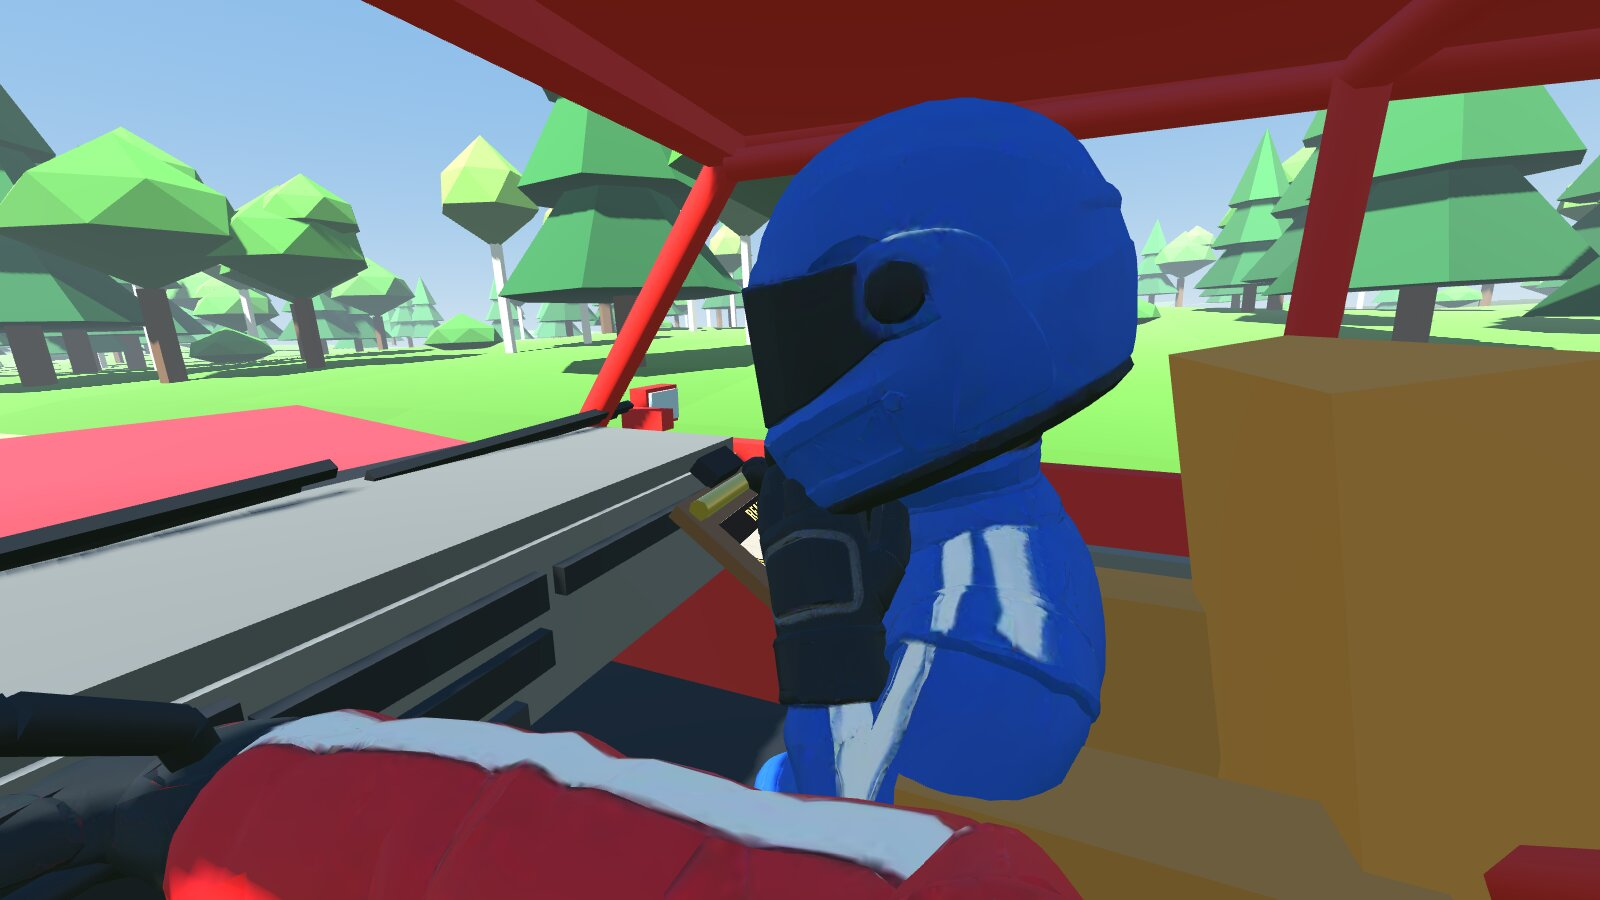
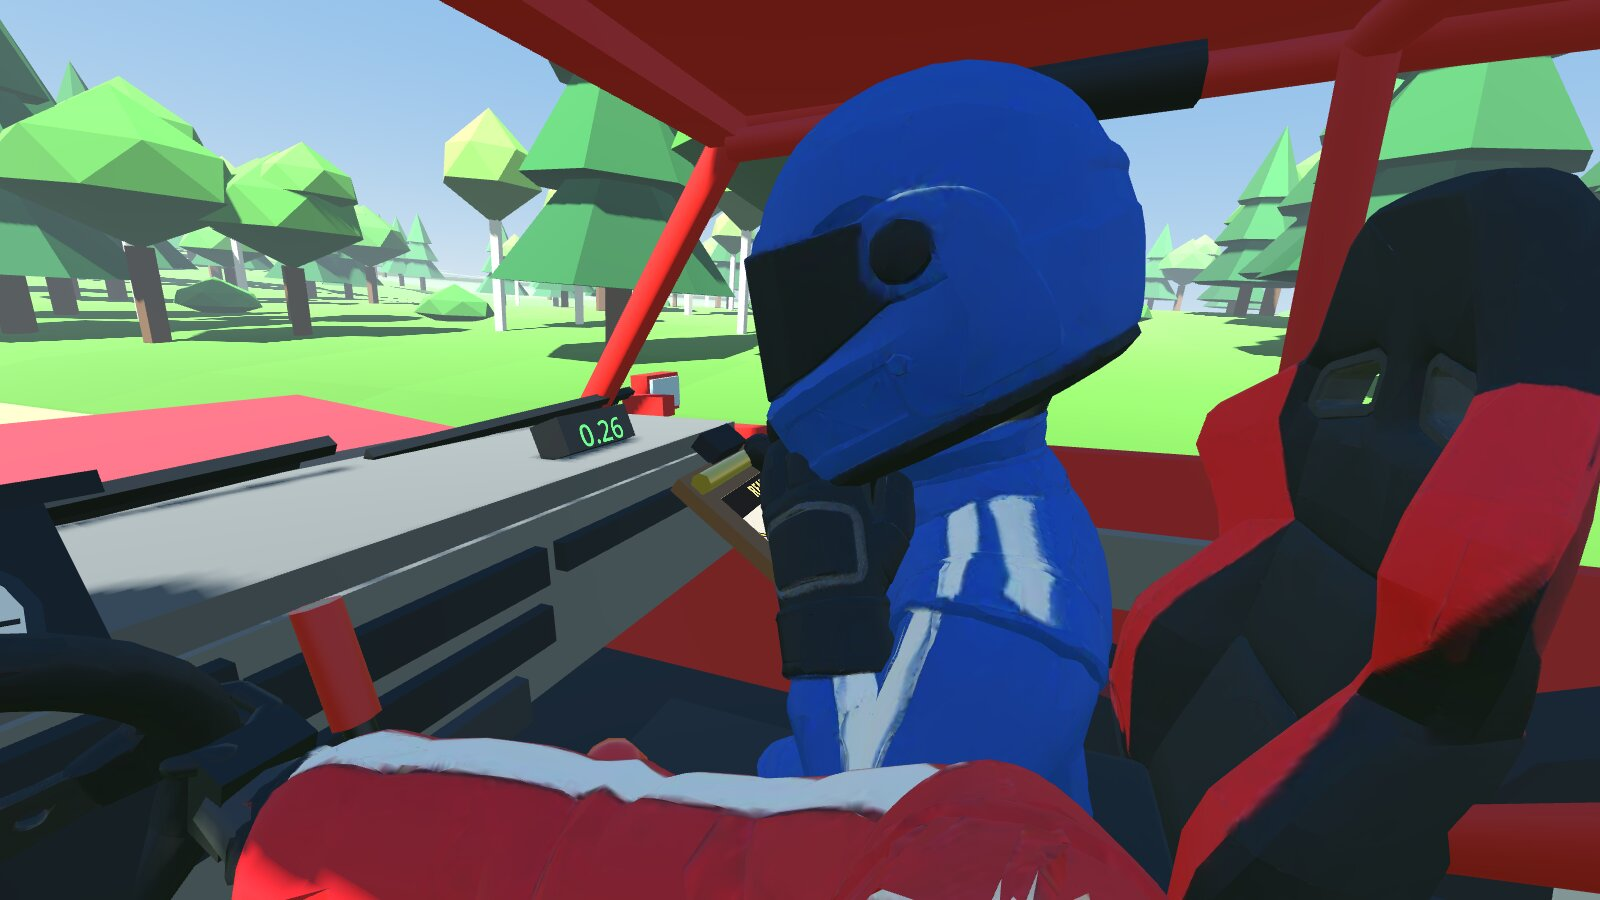
SHOTGUN RALLY docs: ride, hands, interior, loading screen, updater, new screenshots
Claude-Session: https://claude.ai/code/session_01NXYqac7qKp55iHA8gZ85EC

diff --git a/shotgun-rally/README.md b/shotgun-rally/README.md
@@ -15,7 +15,8 @@ No friend online? The **AI co-driver** takes the seat.
 |---|---|
 | ![Driver](docs/screens/driver.jpg) | ![Co-driver looking at the map](docs/screens/codriver.jpg) |
 | ![Mud on the windshield](docs/screens/mud.jpg) | ![The start: five lights and a clock each side of the road](docs/screens/start.jpg) |
-| ![Your co-driver, seen from the driver's seat](docs/screens/crew.jpg) | ![The chase camera (C)](docs/screens/chase.jpg) |
+| ![Your co-driver, seen from the driver's seat](docs/screens/crew.jpg) | ![The chase camera (C): the wheels steer and bounce, the mud flaps swing](docs/screens/chase.jpg) |
+| ![Handbrake: the right hand leaves the wheel and yanks the lever](docs/screens/handbrake.jpg) | ![The loading screen](docs/screens/loading.jpg) |
 
 ## ⬇ Download (always the newest build)
 
@@ -28,6 +29,19 @@ The links never change. Every change to this folder on `main` replaces the files
 - **itch.io:** set-up steps in [`docs/ITCH.md`](docs/ITCH.md)
 
 > While this repo is **private**, the links only work for people with access to it.
+
+**It updates itself.** The menu shows your build number top right. Every time you open the game
+it checks for a newer build, downloads it in the background (a few MB), checks it's complete, and
+shows **RESTART TO UPDATE** (or it switches over by itself the next time you start it). If an
+update ever fails to start, the game drops it and starts as you installed it. Some changes (a
+new Godot version, new project settings) can't be sent that way: then the button says
+**OPEN DOWNLOAD PAGE** and you download the zip again.
+- **The first build with the updater has to be downloaded by hand once** (older copies don't
+  have it).
+- **While the repo is private** the game can't reach the update files: it says so and the button
+  opens the download page instead. Once the repo is public, updates just work, nothing to change.
+- Playing together: both of you need the same build. If you're on different builds the game tells
+  the one who joined who needs to update.
 
 The first time you open it:
 - **Mac:** unzip, double-click `SHOTGUN RALLY.app`. macOS will say it "could not verify" the app:
@@ -62,6 +76,21 @@ Free, PC only (Windows, Mac, Linux). Built in **Godot 4.7**, like BAGHOLDERS.
 6. **Flying finish**, results (the camera circles the car again), then the host picks: next stage,
    retry, or swap seats.
 
+### Inside the car
+
+- **Hands that drive.** Gloves wrap round the rim, fingers and thumb. Turn and the hands go with
+  the wheel; past where an arm can go, one hand lets go and takes a new grip further round
+  (hand-over-hand, never two at once, so the driver's arms never twist), and back near straight
+  they drift home to 9 and 3. **Handbrake:** the right hand drops off the wheel, grabs the tall
+  hydraulic lever beside the seat and yanks it back, then goes back to the wheel.
+- **A real cockpit:** bucket seats and a three-spoke suede wheel (Higgsfield models), a dial
+  binnacle (revs, speed, gear), the co-driver's trip meter, a fire extinguisher, padding and mats.
+- **The car outside** has its own wheels now: they steer, spin and move up and down with the
+  suspension, and the mud flaps swing behind them.
+- **Loading screen:** the stage number, how long it is and how many corners, a rally tip, and a
+  progress bar that follows the build ("Planting ten thousand trees..."). It stays up through the
+  first frames of the stage, which stutter while the graphics warm up, then fades out.
+
 ### How the car drives
 
 Rebuilt from research on real rally tyres and rally games (DiRT Rally, Richard Burns Rally, Assetto
@@ -71,14 +100,20 @@ Corsa's gamepad assist; sources in the commit history):
   tyres can do at that speed (their peak slip angle), wherever the car is pointing, so on keys or a
   stick you never steer past the limit and plough on (that was the "always understeering" feeling).
   Full opposite lock in a slide = the most countersteer. At parking speeds it's plain steering.
-- **Gravel tyres:** grip builds to a peak at ~10 deg of slip and then fades slowly (a gravel tyre
+- **Gravel tyres:** grip builds to a peak at ~8 deg of slip and then fades slowly (a gravel tyre
   pushes a little bank of stones), so a slide is something you drive.
 - **Weight transfer matters:** each tyre grips a bit less per kilo the more it's loaded, and the
   forces act at the contact patches. Brake or lift into a bend and the loaded nose bites; a light
   tail steps out. The handbrake locks the rears and declutches them (all the power to the front,
   like a real Rally2 car) for the hairpin flick.
-- ~0.85 g of cornering on gravel (real rally cars: ~0.8 g), 0-100 km/h in 4.3 s (a Rally2 car: ~4.2 s),
-  45 / 55 AWD.
+- **Grippy on purpose:** ~0.95 g of cornering on gravel, a bit more than a real Rally2 car (~0.8 g),
+  and the steering answers fast: on keys it comes on fully in ~0.17 s and centres in ~0.12 s. 0-100 km/h in 4.3 s (a Rally2 car: ~4.2 s), 45 / 55 AWD.
+- **A calmer ride.** The bouncing came from three things, all fixed: the hills were too steep
+  (up to 31 %: now at most 16 %, smoothed, and crests land gently), the springs hit a hard stop on
+  big landings (now a progressive bump stop, softer damping on the way down, and tyres that give a
+  little), and the camera was bolted to the car (now your head sits on a neck that soaks up the
+  jolts). The shaking at the driver's eye went from 8.6 to 4.0 m/s² on stage 3 and from ~12 to 3.5
+  on stage 15; the hardest landing from 20–25 g to 4–8 g (`tests/ride_check.gd` measures it).
 - `tests/handling_check.gd` measures it: at 50 / 80 / 110 km/h full steering has to be the most
   grip (before the rework, full steering at 110 km/h gave 0.68 g and 25 % gave 0.80 g).
 
@@ -127,7 +162,7 @@ real voice.
 | 0 | Reference breakdown, name, plan, co-driver research, voice pack | ✅ done |
 | 1 | **Playable grey box:** generated forest gravel stages, raycast rally car, first-person driver + co-driver seats, the co-driver's map board, mud + wipers, start countdown, jump starts, resets, results, 2 players online, builds | ✅ done |
 | 2 | **AI co-driver** | ✅ basic version done (calls by time, countdown, finish). Next: quick-call wheel for the human co-driver, call-timing setting in the menu, more lines |
-| 3 | **Art:** the car and both crew are Higgsfield models (concept art -> 3D, the crew rigged and posed in their seats: hands on the wheel / the map board, heads turning where the player looks); next: better trees, the car's own wheels turning | car + crew ✅ |
+| 3 | **Art:** the car and both crew are Higgsfield models (concept art -> 3D, the crew rigged and posed in their seats: hands on the wheel / the map board, heads turning where the player looks), the car's wheels and mud flaps move, gripping gloves + hand-over-hand steering, the interior, the loading screen; next: better trees | car + crew + cockpit ✅ |
 | 4 | **Jobs + content:** OK board, warning triangle, pushing the car, punctures, time cards, road book, recce mode, more biomes | |
 | 5 | Polish, crews racing each other | |
 
@@ -135,27 +170,38 @@ real voice.
 
 1. Install **Godot 4.7** (free) and open the `shotgun-rally/` folder (its `project.godot`), or run
    `godot --path shotgun-rally` from the repo root.
-2. Tests (headless, ~3 minutes): `GODOT=/path/to/godot shotgun-rally/tests/run_all.sh`
+2. Tests (headless, ~6 minutes): `GODOT=/path/to/godot shotgun-rally/tests/run_all.sh`
    - compiles every script; checks 20 generated stages (deterministic, never crossing themselves,
-     every corner gets a note)
-   - the autopilot drives whole stages: 0–100 km/h on gravel (4.8 s), braking, the handbrake flick
+     every corner gets a note, no hill steeper than 17 %)
+   - the autopilot drives whole stages: 0–100 km/h on gravel, braking, the handbrake flick
+   - handling: full steering is the most grip at 50 / 80 / 110 km/h; lift-off and handbrake turns rotate the car
+   - ride: how much the car shakes at the driver's eye on two stages, and the hardest landing
    - the AI co-driver says every call in time (90–240 m before the corner)
    - **2 players, both ways round:** one machine drives, the other rides along; both see the finish
+   - **the updater, start to finish:** a "build 5" copy finds "build 6" on a local web server,
+     downloads it, checks its SHA-256, restarts as build 6; a bad download is thrown away, an update
+     that never reached the menu is dropped
 3. Screenshots without a screen: `xvfb-run godot --path shotgun-rally -- --seed=11 --screenshot=out.png --shot_seat=codriver --shot_read`
+   (more options at the top of `scripts/main.gd`: look around, chase view, steering, handbrake, the loading screen)
+4. **Releasing:** push to `main`. CI tests it, builds the zips, stamps the build number, and
+   uploads the zips plus the update pack (`ShotgunRally.pck` + `version.json`) to the
+   `shotgun-latest` release. Everyone's game picks it up the next time they open it.
 
 | Folder | What's in it |
 |---|---|
 | `scripts/stage/` | the stage generator, the pacenotes, the world builder |
 | `scripts/vehicle/` | the rally car, cockpit + crew, map board, seat camera, AI co-driver, autopilot |
-| `scripts/net/` | settings, the input map, the 2-player connection |
+| `scripts/net/` | settings, the input map, the 2-player connection, the updater |
+| `scripts/ui/` | the menu, the loading screen, the start lights |
 | `assets/voice/fraser/` | the co-driver voice clips (new lines: [`assets/voice/fraser/README.md`](assets/voice/fraser/README.md)) |
 | `tests/` | the headless tests |
 | `docs/` | the plan, the reference breakdown, co-driver research, itch.io set-up |
 
 ## Credits & notes
 
-- Car and crew: made with Higgsfield (GPT Image concept art -> Meshy image-to-3D, the crew
-  auto-rigged), from your account. The concept art is in `docs/reference/models/`.
+- Car, crew, seats and steering wheel: made with Higgsfield (GPT Image concept art -> Meshy
+  image-to-3D, the crew auto-rigged), from your account; the loading screen art too. The concept
+  art is in `docs/reference/models/`.
 - Co-driver voice: Higgsfield Seed Audio 1.0, preset voice "Fraser", made for the Rally Co-Driver
   GPS app ([driver-test-app](https://github.com/pbelfand-dot/driver-test-app)).
 - Sound effects are synthesized (`tools/make_sfx.py`, plus BAGHOLDERS' engine / crash / bell sounds,

diff --git a/README.md b/README.md
@@ -331,11 +331,17 @@ The first time you open it:
 - **Windows:** SmartScreen may say "unrecognized app". Click **More info → Run anyway**.
 - **Linux:** run `chmod +x ShotgunRally.x86_64`, then `./ShotgunRally.x86_64`.
 
+**It updates itself:** the menu shows your build number (top right), checks for a newer build each
+time you open the game, downloads it in the background and offers **RESTART TO UPDATE**. Download
+the zip by hand once more to get the first build that has this. While the repo is private the
+game can't reach the update files, so the button opens the download page instead.
+
 | | |
 |---|---|
 | ![Driver](shotgun-rally/docs/screens/driver.jpg) | ![Co-driver looking at the map](shotgun-rally/docs/screens/codriver.jpg) |
 | ![Mud on the windshield](shotgun-rally/docs/screens/mud.jpg) | ![The start: five lights and a clock each side of the road](shotgun-rally/docs/screens/start.jpg) |
-| ![Your co-driver, seen from the driver's seat](shotgun-rally/docs/screens/crew.jpg) | ![The chase camera (C)](shotgun-rally/docs/screens/chase.jpg) |
+| ![Your co-driver, seen from the driver's seat](shotgun-rally/docs/screens/crew.jpg) | ![The chase camera (C): the wheels steer and bounce, the mud flaps swing](shotgun-rally/docs/screens/chase.jpg) |
+| ![Handbrake: the right hand leaves the wheel and yanks the lever](shotgun-rally/docs/screens/handbrake.jpg) | ![The loading screen](shotgun-rally/docs/screens/loading.jpg) |
 
 ## How a SHOTGUN RALLY stage plays
 
